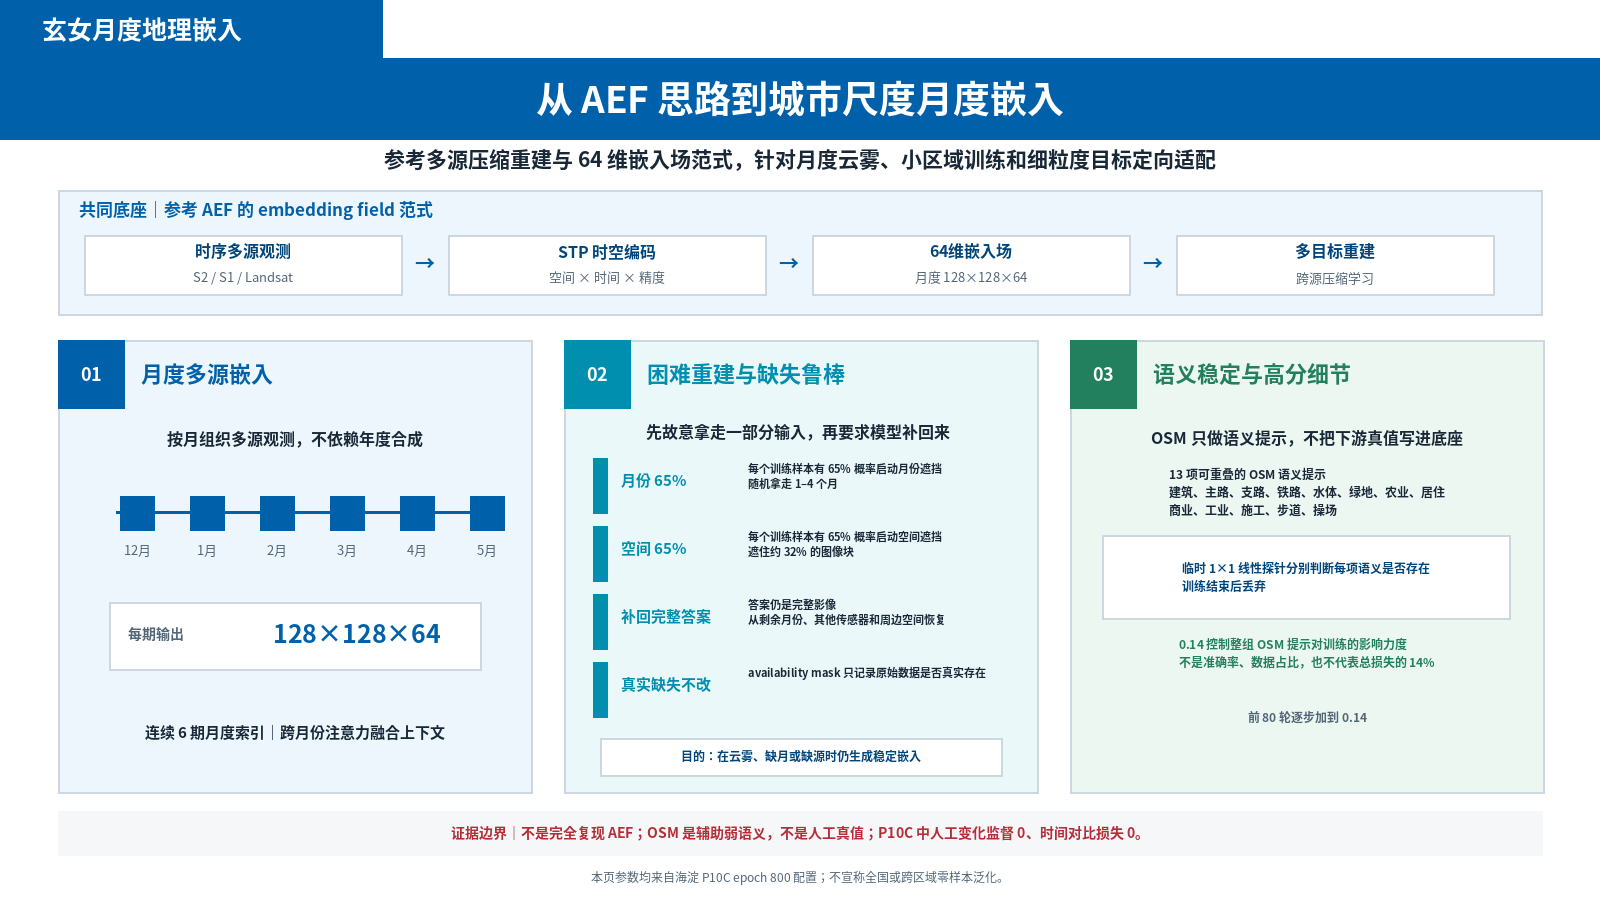
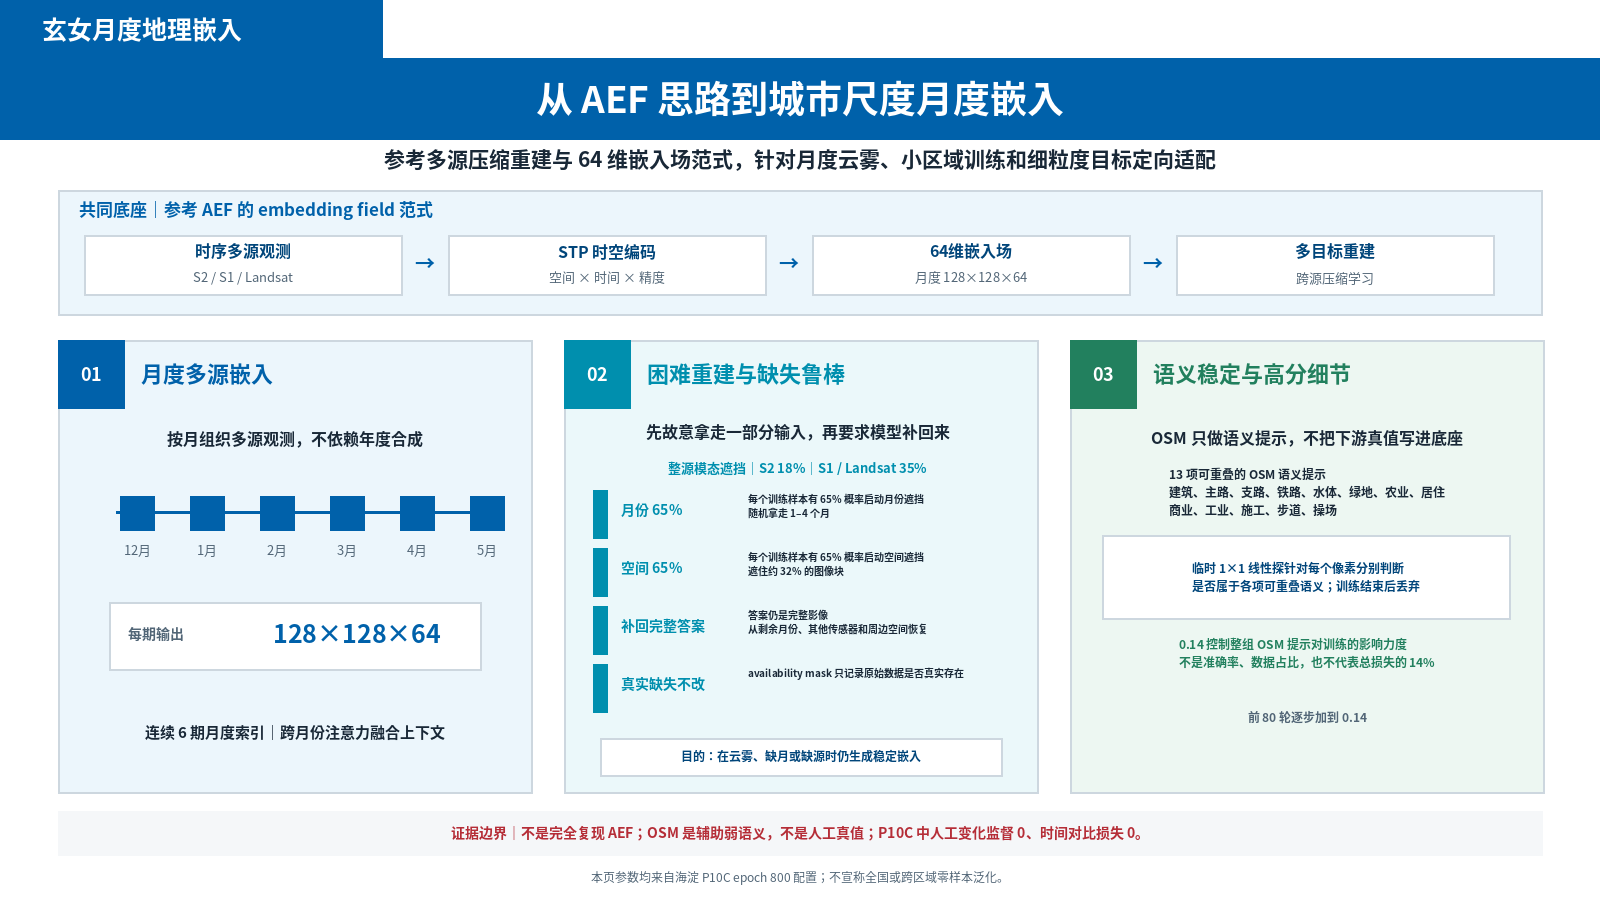
docs: align Pujiang training evidence and slide 9

Changed region(s): [[0.375, 0.4978, 0.625, 0.7778], [0.7188, 0.6222, 0.9062, 0.6844], [0.375, 0.7467, 0.4375, 0.7778]]

diff --git a/scripts/report/build_pujiang_slides04_10.py b/scripts/report/build_pujiang_slides04_10.py
@@ -63,7 +63,7 @@ PAGE_TITLES = {
     6: "嵌入底座进入遥感智能体工作流",
     7: "云遮挡或观测缺失时，生成指定时刻的遥感参考影像",
     8: "海淀区 3 多边形同协议评测：道路与水体领先",
-    9: "探索性结果：标注越少，月度嵌入优势越明显",
+    9: "嵌入结构与任务表现：优势、边界和下一步",
     10: "哈尔滨新区：从月度嵌入到城市治理专题",
 }
 
@@ -477,59 +477,74 @@ def page09() -> tuple[Image.Image, dict]:
     draw = draw_header(
         canvas,
         PAGE_TITLES[9],
-        "与原始多源影像相比，玄女在 5-shot 和 10-shot 条件下的优势最稳定",
+        "PCA 展示空间结构，第 8 页严格指标说明哪些任务已受益、哪些问题仍需解决",
     )
-    shots = [5, 10, 50]
-    gains = {
-        "建筑物": [9.8, 3.5, 5.0],
-        "道路": [18.3, 11.8, 3.3],
-        "水体": [41.5, 25.6, 0.0],
-    }
-    colors = [RED, BLUE, GREEN]
-    x0, y0, x1, y1 = 75, 260, 980, 725
-    draw.line((x0, y1, x1, y1), fill=INK, width=2)
-    for tick in range(0, 6):
-        value = tick * 10
-        y = y1 - int(value / 50 * (y1 - y0))
-        draw.line((x0, y, x1, y), fill=(225, 231, 235), width=1)
-        draw.text((22, y - 10), f"{value}%", font=font(14), fill=MUTED)
-    group_w = (x1 - x0) / 3
-    for shot_index, shot in enumerate(shots):
-        center_x = x0 + group_w * (shot_index + 0.5)
-        for task_index, (_, task_values) in enumerate(gains.items()):
-            value = task_values[shot_index]
-            left = int(center_x - 95 + task_index * 65)
-            top = y1 - int(value / 50 * (y1 - y0))
-            draw.rectangle((left, top, left + 52, y1), fill=colors[task_index])
-            centered(draw, f"+{value:.1f}%" if value else "持平", (left - 8, top - 32, left + 60, top - 3), font(13, True), colors[task_index])
-        centered(draw, f"{shot}-shot", (int(center_x - 85), y1 + 12, int(center_x + 85), y1 + 55), font(18, True), INK)
-    for index, task in enumerate(gains):
-        x = 115 + index * 250
-        draw.rectangle((x, 205, x + 24, 229), fill=colors[index])
-        draw.text((x + 34, 202), task, font=font(16, True), fill=INK)
-    paste_panel(canvas, FEWSHOT_IMAGE, (1030, 235, 1545, 650), "少样本预测案例")
-    draw.rounded_rectangle((1030, 675, 1545, 820), radius=6, fill=PALE_GRAY)
+    paste_panel(
+        canvas,
+        PCA_COMPARE,
+        (55, 215, 1015, 790),
+        "海淀全域嵌入 PCA｜玄女月度嵌入与 AEF 年度嵌入",
+    )
+    cards = [
+        (
+            "道路｜当前优势最稳定",
+            "玄女 F1 0.368、AUC 0.745、AP 0.304\n三项均高于 AEF 与传统特征",
+            (237, 247, 242),
+            GREEN,
+        ),
+        (
+            "水体｜排序能力领先",
+            "AUC 0.692、AP 0.075 均领先\n但 F1 仅 0.111，适合候选发现而非直接交付",
+            PALE_BLUE,
+            BLUE,
+        ),
+        (
+            "建筑｜建筑假正例仍偏多",
+            "玄女 F1 0.256，低于 AEF 0.311\n需提升语义分离与跨 patch 阈值稳定性",
+            PALE_GRAY,
+            RED,
+        ),
+    ]
+    for index, (title, detail, fill, accent) in enumerate(cards):
+        y = 215 + index * 166
+        draw.rounded_rectangle(
+            (1050, y, 1545, y + 142),
+            radius=6,
+            fill=fill,
+            outline=LINE,
+            width=2,
+        )
+        draw.rectangle((1050, y, 1062, y + 142), fill=accent)
+        draw.text((1082, y + 18), title, font=font(19, True), fill=accent)
+        draw.multiline_text(
+            (1082, y + 58),
+            detail,
+            font=font(15, True),
+            fill=INK,
+            spacing=6,
+        )
+    draw.rounded_rectangle((1050, 713, 1545, 808), radius=6, fill=WHITE, outline=LINE, width=2)
     centered(
         draw,
-        "shot 定义\nN 个正样本 patch + N 个负样本 patch\n\nfold-0、seed 42 探索性结果\n每种输入取五类候选头中的最佳值\n全量标签 + 重型 UNet 仍是原始影像强上限",
-        (1050, 680, 1525, 815),
-        font(16, True),
+        "下一步验证\n5-fold × 多随机种子复核｜独立人工标签验证｜建筑阈值校准",
+        (1070, 718, 1525, 803),
+        font(15, True),
         INK,
     )
     centered(
         draw,
-        "纵轴为 F1 相对提升百分比：（玄女 F1 − 原始影像 F1）÷ 原始影像 F1；"
-        "原始影像允许使用更强任务头。",
-        (60, 832, 1540, 875),
+        "本页不引入新的评测协议；全部任务结论均引用第 8 页同一 3 多边形 PU+Query 实验。",
+        (60, 830, 1540, 875),
         font(16, True),
         MUTED,
     )
     return canvas, {
         "slide": 9,
         "title": PAGE_TITLES[9],
-        "metric": "relative F1 gain (%)",
-        "water_5shot_gain_percent": 41.5,
-        "gains": gains,
+        "protocol": "same three-polygon PU+Query evidence as slide 8",
+        "strength": "道路 F1/AUC/AP 均领先",
+        "boundary": "水体 F1 仍低；建筑假正例仍偏多",
+        "next": ["5-fold multi-seed", "independent manual labels", "threshold calibration"],
     }
 
 

diff --git a/scripts/report/build_pujiang_slide03.py b/scripts/report/build_pujiang_slide03.py
@@ -276,12 +276,24 @@ def add_masking_card(slide) -> None:
         True,
         PP_ALIGN.CENTER,
     )
-    y = 3.84
+    add_text(
+        slide,
+        "整源模态遮挡｜S2 18%｜S1 / Landsat 35%",
+        x + 0.24,
+        3.79,
+        3.46,
+        0.30,
+        13,
+        CYAN,
+        True,
+        PP_ALIGN.CENTER,
+    )
+    y = 4.12
     for index, (title, detail) in enumerate(MASK_FACTS):
-        row_y = y + index * 0.59
-        add_rect(slide, x + 0.24, row_y, 0.10, 0.51, CYAN, CYAN)
-        add_text(slide, title, x + 0.45, row_y, 1.06, 0.51, 15, CYAN, True)
-        add_text(slide, detail, x + 1.50, row_y, 2.20, 0.51, 13, INK, True)
+        row_y = y + index * 0.53
+        add_rect(slide, x + 0.24, row_y, 0.10, 0.46, CYAN, CYAN)
+        add_text(slide, title, x + 0.45, row_y, 1.06, 0.46, 14, CYAN, True)
+        add_text(slide, detail, x + 1.50, row_y, 2.20, 0.46, 12, INK, True)
     add_rect(slide, x + 0.30, 6.25, 3.34, 0.26, WHITE, LINE)
     add_text(
         slide,
@@ -328,7 +340,8 @@ def add_semantic_card(slide) -> None:
     add_rect(slide, x + 0.27, 4.56, 3.40, 0.76, WHITE, LINE)
     add_text(
         slide,
-        "怎么进入模型？\n临时 1×1 线性探针分别判断每项语义是否存在；训练结束后丢弃",
+        "怎么进入模型？\n临时 1×1 线性探针对每个像素分别判断是否属于各项可重叠语义；"
+        "训练结束后丢弃",
         x + 0.38,
         4.65,
         3.18,
@@ -520,18 +533,25 @@ def build_preview(output: Path) -> None:
         pil_font(16, True),
         ink,
     )
-    row_y = 458
+    draw_centered(
+        draw,
+        "整源模态遮挡｜S2 18%｜S1 / Landsat 35%",
+        (590, 452, 1005, 486),
+        pil_font(13, True),
+        cyan,
+    )
+    row_y = 490
     for title, detail in MASK_FACTS:
-        draw.rectangle((593, row_y, 607, row_y + 55), fill=cyan)
-        draw.text((621, row_y + 10), title, font=pil_font(15, True), fill=cyan)
+        draw.rectangle((593, row_y, 607, row_y + 48), fill=cyan)
+        draw.text((621, row_y + 8), title, font=pil_font(14, True), fill=cyan)
         draw.multiline_text(
-            (748, row_y + 2),
+            (748, row_y + 1),
             detail,
-            font=pil_font(11, True),
+            font=pil_font(10, True),
             fill=ink,
             spacing=2,
         )
-        row_y += 68
+        row_y += 58
     draw.rectangle((600, 738, 1002, 776), fill="white", outline=line, width=2)
     draw_centered(
         draw,
@@ -559,7 +579,7 @@ def build_preview(output: Path) -> None:
     draw.rectangle((1102, 535, 1510, 619), fill="white", outline=line, width=2)
     draw_centered(
         draw,
-        "临时 1×1 线性探针分别判断每项语义是否存在\n训练结束后丢弃",
+        "临时 1×1 线性探针对每个像素分别判断\n是否属于各项可重叠语义；训练结束后丢弃",
         (1108, 540, 1504, 614),
         pil_font(12, True),
         deep_blue,

diff --git a/tests/test_pujiang_slide03.py b/tests/test_pujiang_slide03.py
@@ -32,6 +32,9 @@ def test_slide03_states_p10c_adaptations_without_overclaiming(tmp_path: Path) ->
         "连续 6 期",
         "跨月份注意力",
         "先故意拿走一部分输入",
+        "整源模态遮挡",
+        "S2 18%",
+        "S1 / Landsat 35%",
         "每个训练样本有 65% 概率启动月份遮挡",
         "随机拿走 1–4 个月",
         "每个训练样本有 65% 概率启动空间遮挡",
@@ -43,7 +46,7 @@ def test_slide03_states_p10c_adaptations_without_overclaiming(tmp_path: Path) ->
         "OSM 只做语义提示",
         "13 项可重叠的 OSM 语义提示",
         "建筑、主路、支路、铁路、水体、绿地、农业、居住、商业、工业、施工、步道、操场",
-        "分别判断每项语义是否存在",
+        "对每个像素分别判断是否属于各项可重叠语义",
         "0.14 控制整组 OSM 提示对训练的影响力度",
         "不代表总损失的 14%",
         "临时 1×1 线性探针",

diff --git a/tests/test_pujiang_slides04_10.py b/tests/test_pujiang_slides04_10.py
@@ -34,7 +34,7 @@ def test_slides05_to10_build_with_required_evidence(tmp_path: Path) -> None:
         6: ("嵌入底座进入遥感智能体工作流", "embedding_tool"),
         7: ("云遮挡或观测缺失时，生成指定时刻的遥感参考影像", "参考影像"),
         8: ("海淀区 3 多边形同协议评测：道路与水体领先", 0.368),
-        9: ("探索性结果：标注越少，月度嵌入优势越明显", 41.5),
+        9: ("嵌入结构与任务表现：优势、边界和下一步", "建筑假正例"),
         10: ("哈尔滨新区：从月度嵌入到城市治理专题", "V5/v2 API"),
     }
     for page, (title, evidence) in expectations.items():
